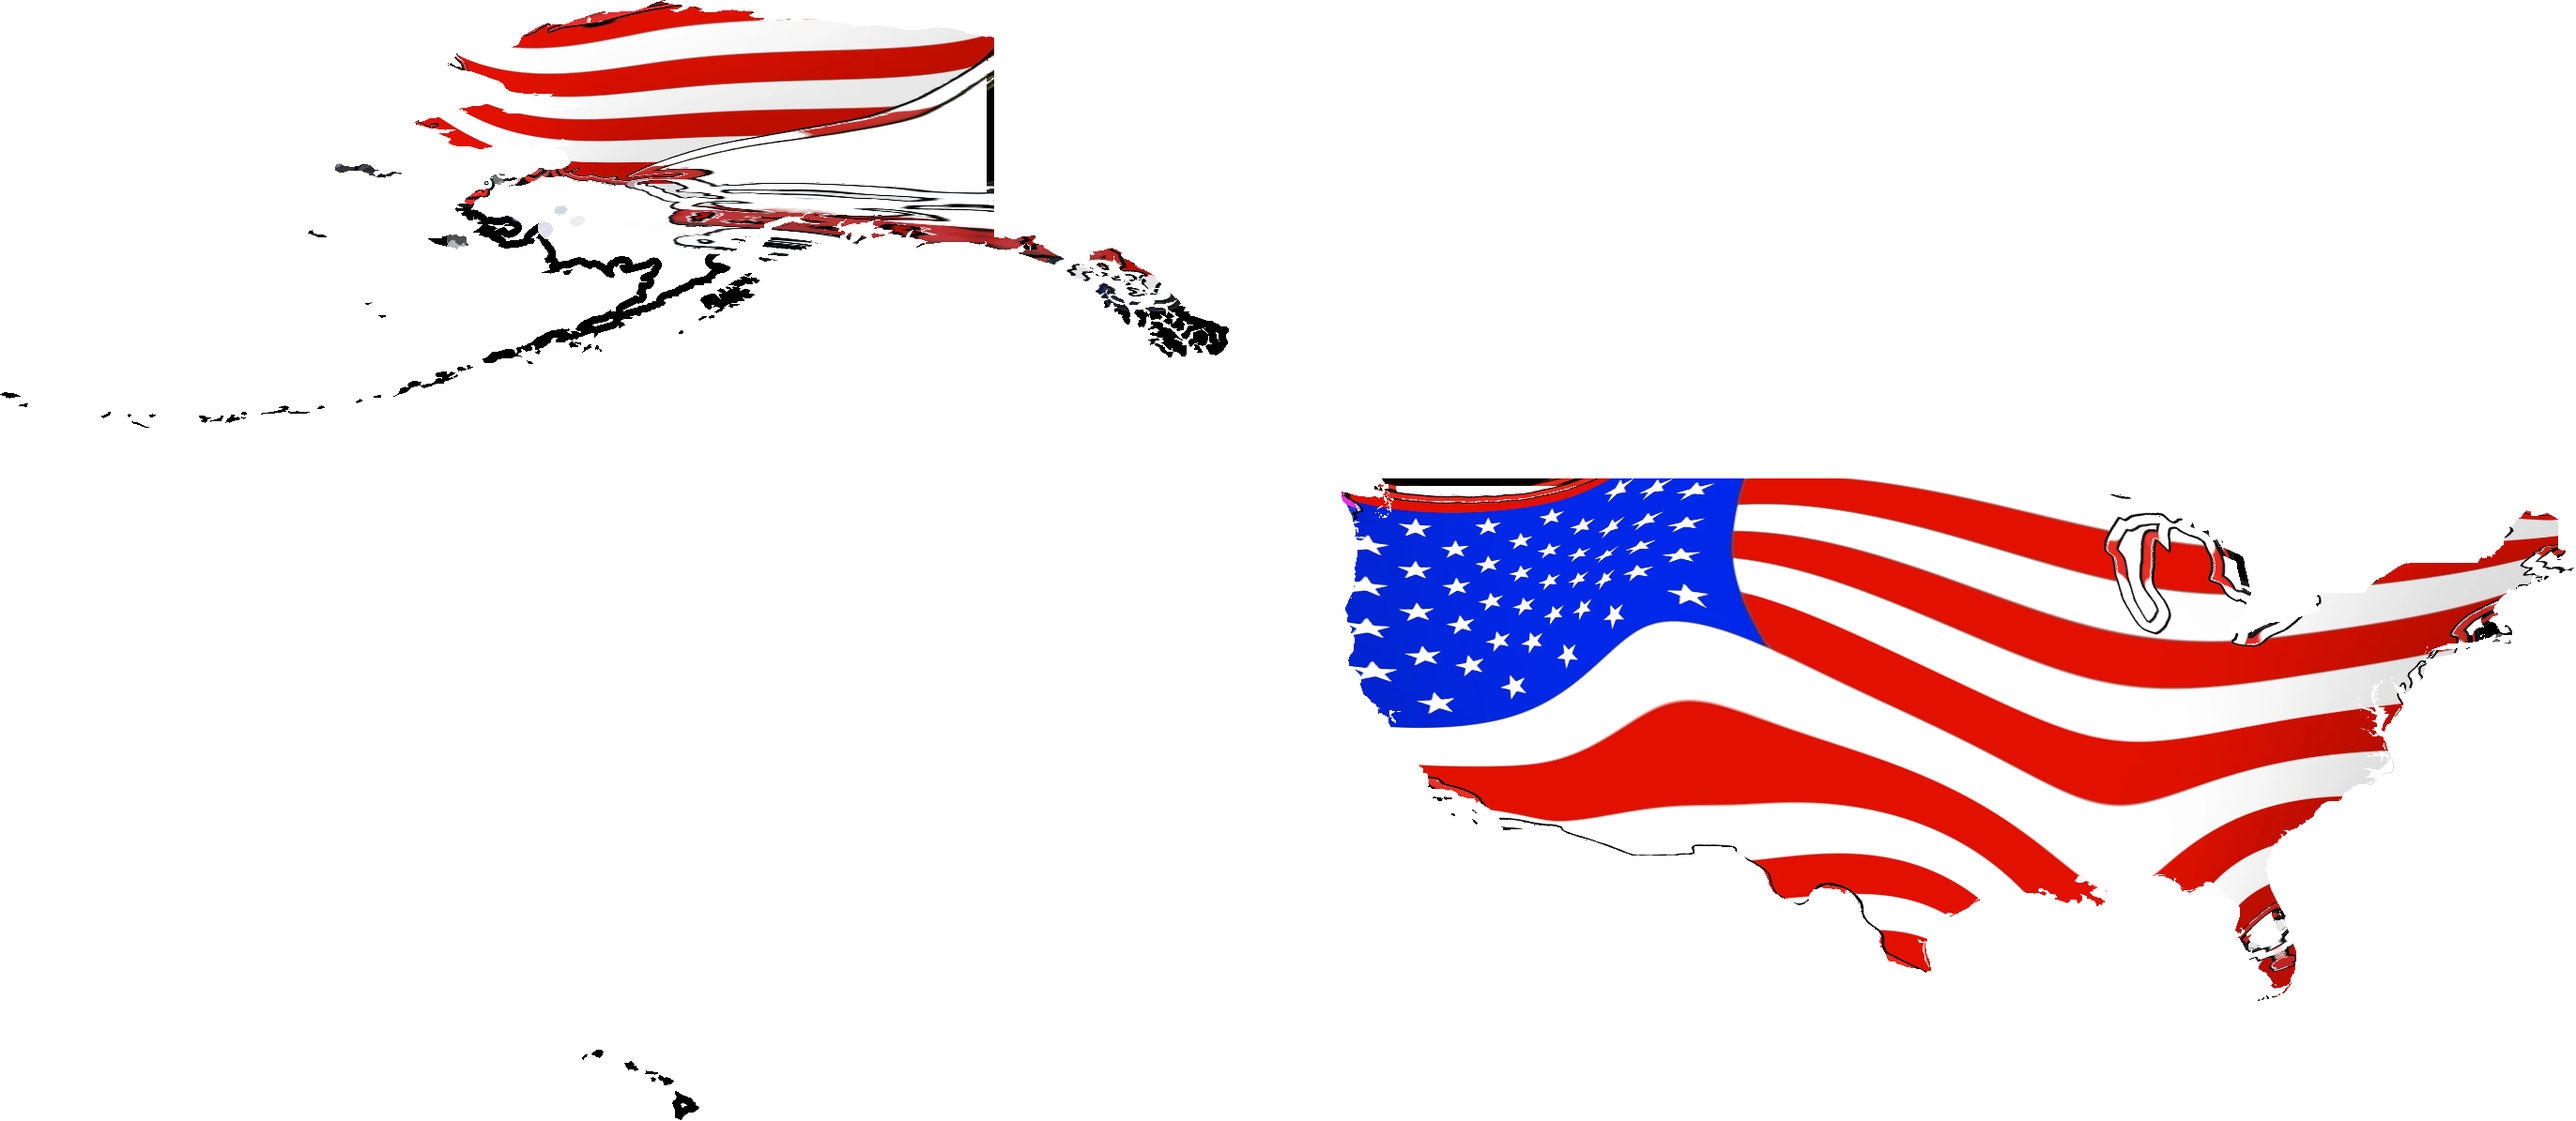
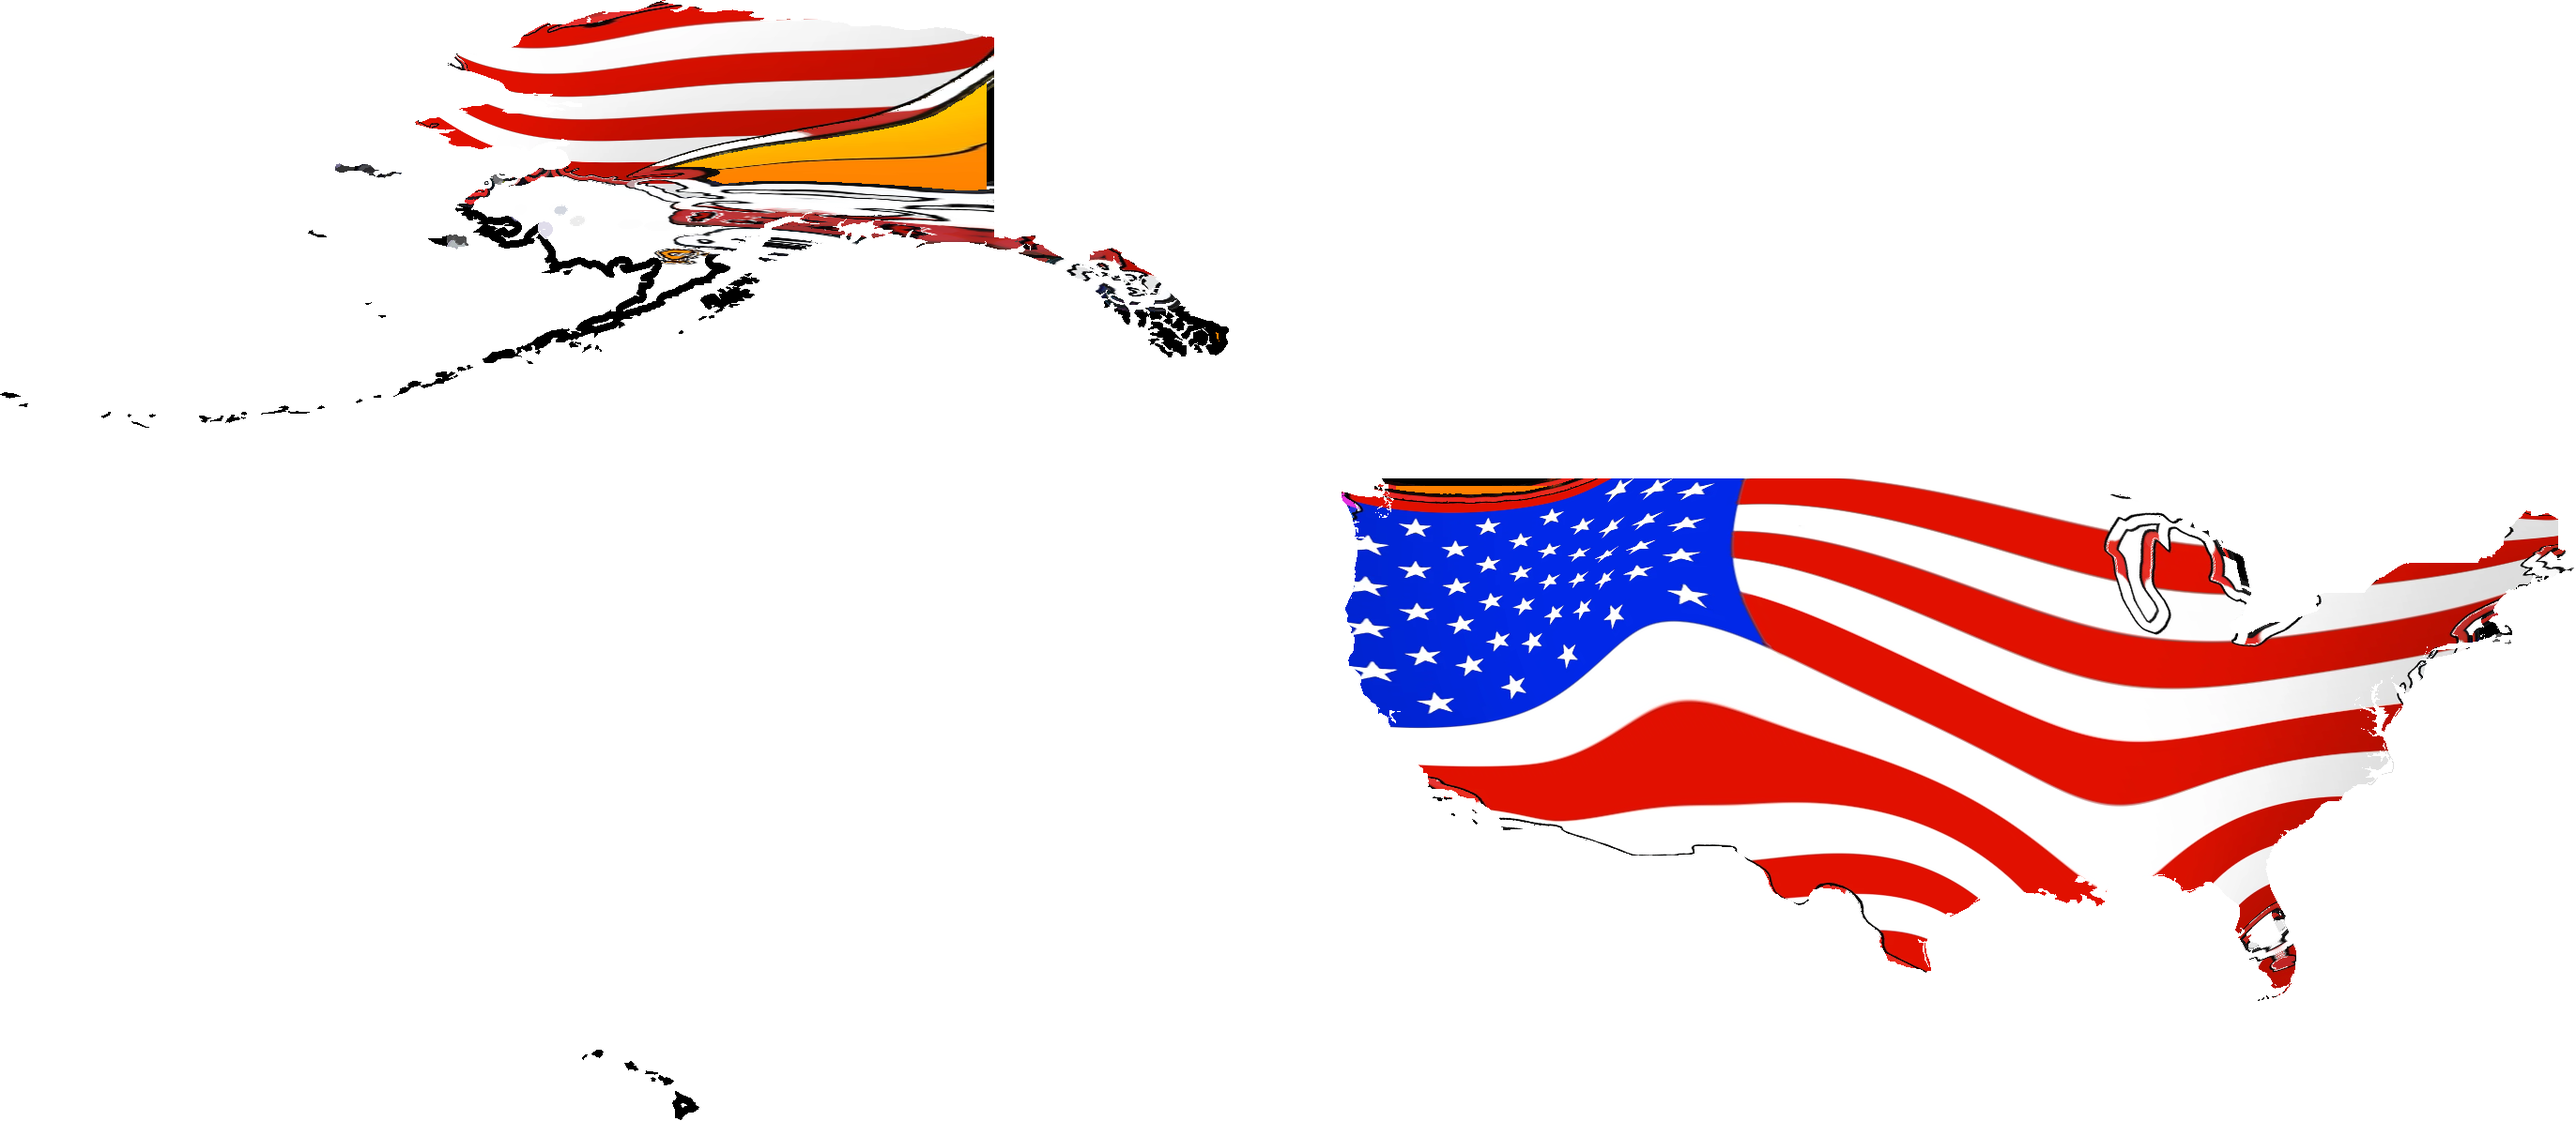
Blend art-priority fallbacks with sheet coverage

Changed region(s): [[0.2478, 0.0619, 0.4027, 0.1858], [0.5266, 0.4335, 0.6195, 0.4644], [0.2478, 0.2167, 0.2788, 0.2477]]

diff --git a/tools/build_globe_global_warps.py b/tools/build_globe_global_warps.py
@@ -66,6 +66,8 @@ LOW_IOU_RESCUE_MAX_TARGET_AREA_PX = 7000
 MICRO_MASK_SNAP_MAX_TARGET_AREA_PX = 60
 MICRO_MASK_SNAP_MIN_IOU = 0.90
 ART_PRIORITY_FALLBACK_MAX_TARGET_AREA_PX = 1200000
+ART_FALLBACK_BLEND_MIN_TARGET_AREA_PX = 4000
+ART_FALLBACK_BLEND_RECALL_DELTA = 0.010
 TINY_FALLBACK_MIN_SCORE_GAIN = 0.008
 
 # Region-specific tuning where one global default is not sufficient.
@@ -926,6 +928,32 @@ def repair_boundary_holes(
     return warped_rgba
 
 
+def blend_art_fallback_with_sheet(
+    sheet_rgba: np.ndarray,
+    fallback_rgba: np.ndarray,
+    mask_u8: np.ndarray,
+) -> np.ndarray:
+    """Use fallback colors where available, but keep sheet coverage for stability."""
+    mask_u8 = (mask_u8 > 0).astype(np.uint8) * 255
+    if not np.any(mask_u8):
+        return fallback_rgba
+
+    out = sheet_rgba.copy()
+    mask_u16 = mask_u8.astype(np.uint16)
+    sheet_alpha = ((sheet_rgba[:, :, 3].astype(np.uint16) * mask_u16) // 255).astype(np.uint8)
+    fallback_alpha = ((fallback_rgba[:, :, 3].astype(np.uint16) * mask_u16) // 255).astype(np.uint8)
+
+    use_fallback_rgb = fallback_alpha > OUTPUT_ALPHA_THRESHOLD
+    if np.any(use_fallback_rgb):
+        out[use_fallback_rgb, :3] = fallback_rgba[use_fallback_rgb, :3]
+
+    out[:, :, 3] = np.maximum(sheet_alpha, fallback_alpha)
+    if BOUNDARY_HOLE_FILL_PX > 0:
+        out = repair_boundary_holes(out, (mask_u8 > 0).astype(np.uint8))
+    out[out[:, :, 3] <= OUTPUT_ALPHA_THRESHOLD, :3] = 0
+    return out
+
+
 def stabilize_tiny_island_rgba(
     warped_rgba: np.ndarray,
     mask_u8: np.ndarray,
@@ -1030,6 +1058,16 @@ def alpha_coverage(alpha: np.ndarray, mask_u8: np.ndarray) -> float:
         return 0.0
     pred_px = int(np.sum(alpha > OUTPUT_ALPHA_THRESHOLD))
     return float(pred_px) / float(target_px)
+
+
+def alpha_recall(alpha: np.ndarray, mask_u8: np.ndarray) -> float:
+    tgt = mask_u8 > 0
+    target_px = int(np.sum(tgt))
+    if target_px <= 0:
+        return 0.0
+    pred = alpha > OUTPUT_ALPHA_THRESHOLD
+    inter = int(np.sum(pred & tgt))
+    return float(inter) / float(target_px)
 
 
 def tiny_quality_score(alpha: np.ndarray, mask_u8: np.ndarray) -> float:
@@ -1698,12 +1736,14 @@ def main() -> None:
                 source_region=job.source_region,
                 feature_key=str(job.country.get("featureKey", "")),
             )
+            sheet_rgba = warped_rgba.copy()
 
             used_tiny_fallback = False
             if should_try_tiny_fallback(job):
                 mask_u8 = (job.target_shape.mask > 0).astype(np.uint8)
-                sheet_score = tiny_quality_score(warped_rgba[:, :, 3], mask_u8)
-                sheet_iou = iou_from_alpha(warped_rgba[:, :, 3], job.target_shape.mask)
+                sheet_score = tiny_quality_score(sheet_rgba[:, :, 3], mask_u8)
+                sheet_iou = iou_from_alpha(sheet_rgba[:, :, 3], job.target_shape.mask)
+                sheet_recall = alpha_recall(sheet_rgba[:, :, 3], mask_u8)
                 fallback_rgba = render_country_with_inverse_map(job, model)
                 fallback_rgba = stabilize_tiny_island_rgba(
                     fallback_rgba,
@@ -1714,6 +1754,7 @@ def main() -> None:
                 )
                 fallback_score = tiny_quality_score(fallback_rgba[:, :, 3], mask_u8)
                 fallback_iou = iou_from_alpha(fallback_rgba[:, :, 3], job.target_shape.mask)
+                fallback_recall = alpha_recall(fallback_rgba[:, :, 3], mask_u8)
                 min_gain = TINY_FALLBACK_MIN_SCORE_GAIN
                 if int(job.target_area) <= 260:
                     min_gain = 0.0015
@@ -1751,6 +1792,14 @@ def main() -> None:
                     # yields any real overlap improvement.
                     use_fallback = True
                 if use_fallback:
+                    if (
+                        art_priority
+                        and int(job.target_area) >= ART_FALLBACK_BLEND_MIN_TARGET_AREA_PX
+                        and sheet_recall > fallback_recall + ART_FALLBACK_BLEND_RECALL_DELTA
+                    ):
+                        # Keep fallback motif where it lands well, but recover
+                        # missing geographic coverage from the shared sheet.
+                        fallback_rgba = blend_art_fallback_with_sheet(sheet_rgba, fallback_rgba, mask_u8)
                     warped_rgba = fallback_rgba
                     used_tiny_fallback = True
                     tiny_fallback_count += 1
